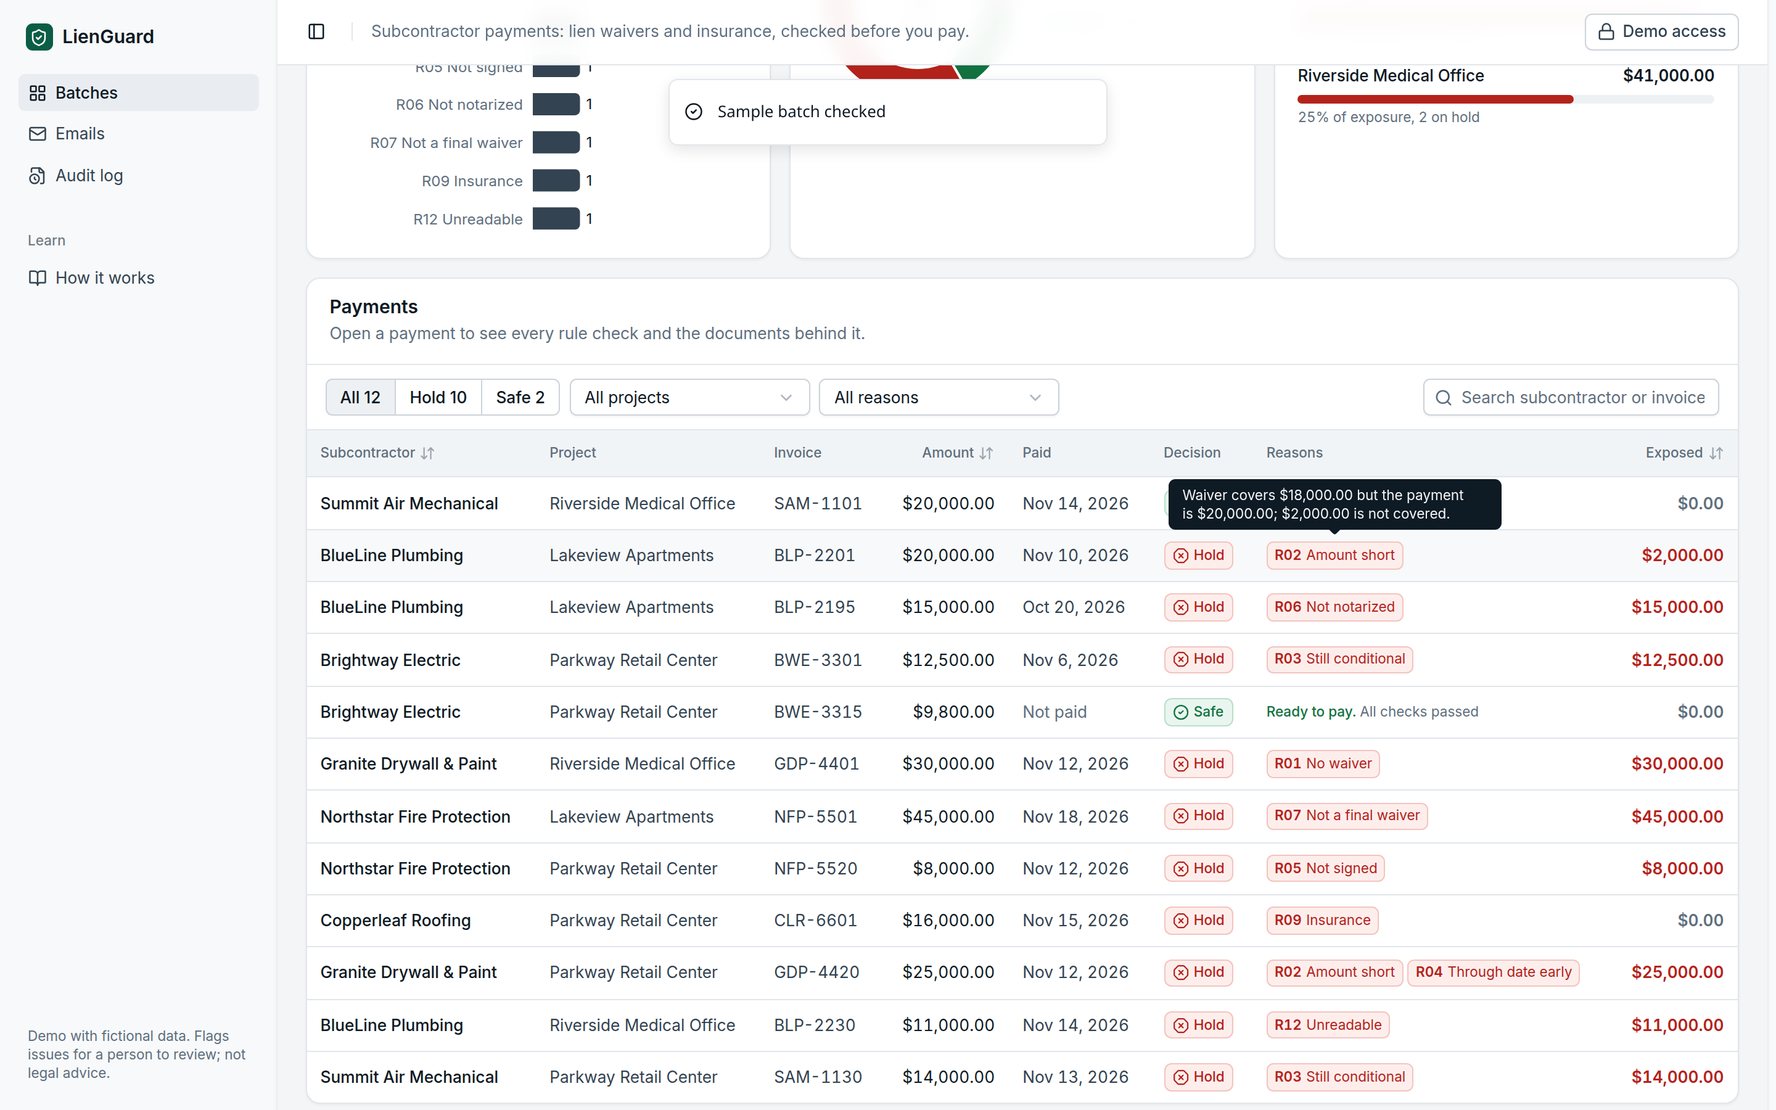
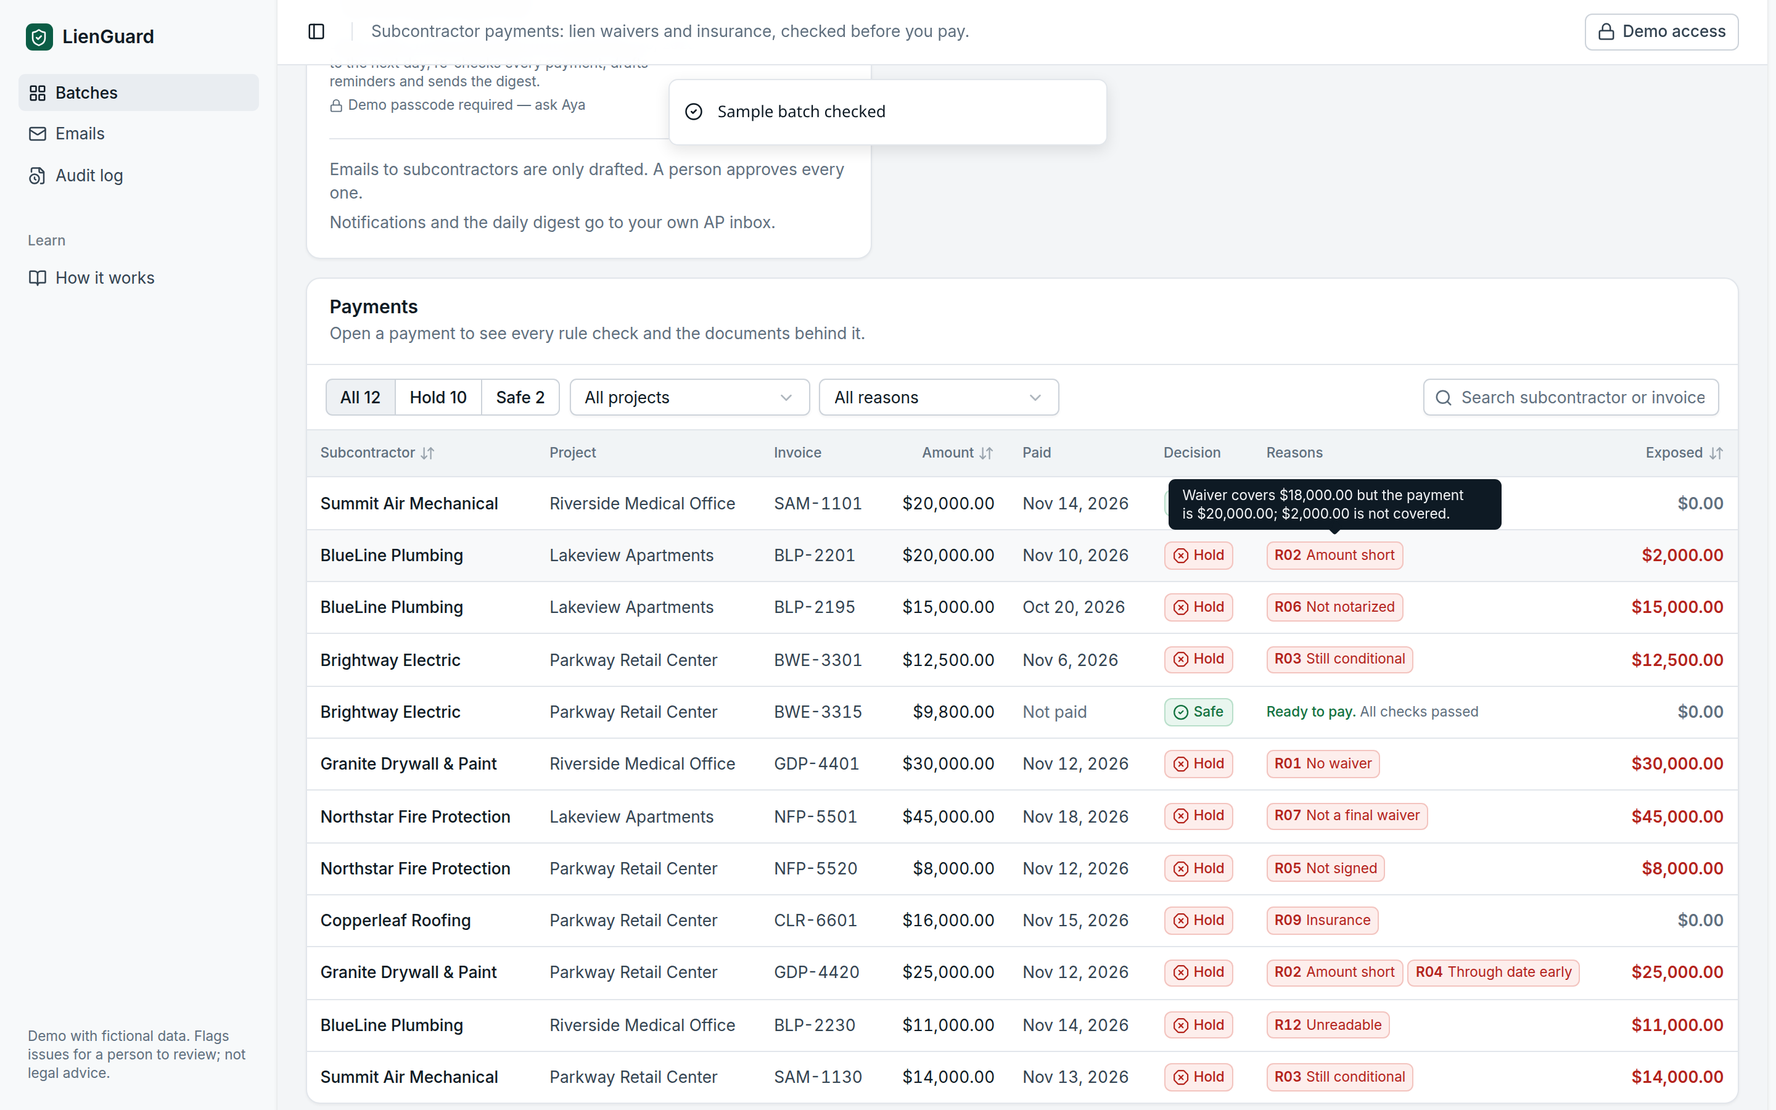
story(S-20): activity timeline and the automated loop in the UI and README
- Batch page: Automation panel ("Simulate a subcontractor reply" on sample
  batches, "Run daily check now" with the demo clock) and an Activity
  timeline of every event with time and source (Automation or a person).
- Emails: reminders are listed next to the follow-up and explained as
  code-written drafts that wait for approval.
- Home "How it works" shows the loop: document arrives -> AI reads ->
  rules re-check -> status changes -> notify / draft reminder -> human
  approves. README "Automation" section. Screenshots 18, 18b, 19.

diff --git a/src/components/app/activity.tsx b/src/components/app/activity.tsx
@@ -1,0 +1,103 @@
+// Activity timeline (AC-20.1): every automatic and human event on a batch, newest first.
+import { Bot, CheckCircle2, FileInput, Mail, MailCheck, MailX, OctagonX, RefreshCw, Send, User } from "lucide-react";
+import type { ReactNode } from "react";
+import { formatMoney } from "@/domain/money";
+import { formatDate } from "@/domain/dates";
+import { cn } from "@/lib/utils";
+
+type Row = { id: string; at: Date; actor: string; action: string; detailsJson: unknown; subCode: string | null };
+
+function d(row: Row): Record<string, unknown> {
+  return row.detailsJson && typeof row.detailsJson === "object" ? (row.detailsJson as Record<string, unknown>) : {};
+}
+
+function describe(row: Row): { icon: ReactNode; text: ReactNode; tone?: "hold" | "safe" } {
+  const x = d(row);
+  switch (row.action) {
+    case "document.received":
+      return { icon: <FileInput aria-hidden />, text: <>Document received: <b>{String(x.fileName ?? "")}</b> ({String(x.read ?? "read")})</> };
+    case "document.duplicate":
+      return { icon: <FileInput aria-hidden />, text: <>Same document received again: {String(x.fileName ?? "")}. Nothing changed.</> };
+    case "rules.rerun":
+      return {
+        icon: <RefreshCw aria-hidden />,
+        text: (
+          <>
+            Rules re-run{x.reason ? ` (${String(x.reason)}${typeof x.today === "string" ? `, batch date ${formatDate(x.today)}` : ""})` : ""}. Exposed{" "}
+            {typeof x.exposedCents === "number" ? formatMoney(x.exposedCents) : ""}.
+          </>
+        ),
+      };
+    case "payment.status_changed": {
+      const toSafe = x.to === "SAFE";
+      return {
+        icon: toSafe ? <CheckCircle2 aria-hidden /> : <OctagonX aria-hidden />,
+        tone: toSafe ? "safe" : "hold",
+        text: (
+          <>
+            <b>{String(x.sub ?? "")}</b>, invoice {String(x.invoice ?? "")}: {String(x.from ?? "")} → <b>{String(x.to ?? "")}</b>
+          </>
+        ),
+      };
+    }
+    case "notification.sent":
+      return { icon: <MailCheck aria-hidden />, text: <>Notified the AP inbox: “{String(x.text ?? "")}”</> };
+    case "notification.not_sent":
+      return { icon: <MailX aria-hidden />, text: <>AP notification not sent ({String(x.reason ?? "")}): “{String(x.text ?? "")}”</> };
+    case "reminder.drafted":
+      return { icon: <Mail aria-hidden />, text: <>Reminder drafted for <b>{String(x.sub ?? "")}</b>. Waiting for a person to approve it.</> };
+    case "digest.sent":
+      return { icon: <Send aria-hidden />, text: <>Daily digest sent to the AP inbox ({String(x.newHolds ?? 0)} new holds, {String(x.cleared ?? 0)} cleared).</> };
+    case "batch.create_sample":
+      return { icon: <FileInput aria-hidden />, text: <>Created from sample data</> };
+    case "email.generate_drafts":
+      return { icon: <Mail aria-hidden />, text: <>Follow-up emails drafted ({String(x.created ?? "")})</> };
+    case "email.approve":
+      return { icon: <CheckCircle2 aria-hidden />, text: <>Approved the email to {row.subCode ?? "a subcontractor"}</> };
+    case "email.send":
+      return { icon: <Send aria-hidden />, text: <>Sent the email to {row.subCode ?? "a subcontractor"}</> };
+    case "email.skip":
+      return { icon: <MailX aria-hidden />, text: <>Skipped the email to {row.subCode ?? "a subcontractor"}</> };
+    case "email.edit":
+      return { icon: <Mail aria-hidden />, text: <>Edited the email to {row.subCode ?? "a subcontractor"}</> };
+    default:
+      return { icon: <RefreshCw aria-hidden />, text: row.action };
+  }
+}
+
+const when = (at: Date) => at.toLocaleString("en-US", { month: "short", day: "numeric", hour: "numeric", minute: "2-digit", timeZone: "UTC" }) + " UTC";
+
+export function ActivityTimeline({ rows }: { rows: Row[] }) {
+  if (rows.length === 0) return <p className="px-5 py-6 text-sm text-muted-foreground">No activity yet.</p>;
+  return (
+    <ol className="relative px-5 py-4">
+      {rows.map((r, i) => {
+        const v = describe(r);
+        const auto = r.actor === "automation";
+        return (
+          <li key={r.id} className="relative flex gap-3 pb-4 last:pb-0">
+            {i < rows.length - 1 ? <span aria-hidden className="absolute top-7 bottom-0 left-[13px] w-px bg-border" /> : null}
+            <span
+              className={cn(
+                "relative z-10 flex size-7 shrink-0 items-center justify-center rounded-full border bg-card [&_svg]:size-3.5",
+                v.tone === "safe" ? "border-safe-line text-safe" : v.tone === "hold" ? "border-hold-line text-hold" : "text-muted-foreground",
+              )}
+            >
+              {v.icon}
+            </span>
+            <div className="min-w-0 flex-1 pt-0.5">
+              <p className="text-sm text-foreground">{v.text}</p>
+              <p className="mt-0.5 flex items-center gap-1.5 text-xs text-muted-foreground">
+                <span className="num">{when(r.at)}</span>
+                <span className="ml-1 inline-flex items-center gap-1">
+                  {auto ? <Bot aria-hidden className="size-3" /> : <User aria-hidden className="size-3" />}
+                  {auto ? "Automation" : r.actor}
+                </span>
+              </p>
+            </div>
+          </li>
+        );
+      })}
+    </ol>
+  );
+}

diff --git a/src/app/_components/automation.tsx b/src/app/_components/automation.tsx
@@ -1,0 +1,72 @@
+"use client";
+
+// The two buttons that let reviewers see the automated loop without curl (AC-18.4, AC-19.1).
+import { CalendarClock, Inbox, Loader2 } from "lucide-react";
+import { useRouter } from "next/navigation";
+import { useState } from "react";
+import { toast } from "sonner";
+import { post } from "./client-api";
+import { Button } from "@/components/app/button";
+import { PasscodeNote, useUnlocked } from "@/components/app/demo-access";
+
+export function AutomationActions({ batchId, isSample, batchDate }: { batchId: string; isSample: boolean; batchDate: string }) {
+  const router = useRouter();
+  const unlocked = useUnlocked();
+  const [busy, setBusy] = useState("");
+
+  const simulate = async () => {
+    setBusy("reply");
+    try {
+      const r = await post<{ changes: { subName: string; invoice: string; to: string }[]; duplicate: boolean; notified: boolean }>(`/api/batches/${batchId}/simulate-reply`);
+      if (r.duplicate) toast("That reply was already received. Nothing changed.");
+      else if (r.changes.length) {
+        const c = r.changes[0]!;
+        toast.success(`${c.subName} ${c.invoice} is now ${c.to === "SAFE" ? "safe to pay" : "on hold"}`, {
+          description: r.notified ? "The AP inbox was notified." : "AP email not sent: unlock demo access to send it.",
+        });
+      } else toast("Document received. No payment changed.");
+      router.refresh();
+    } catch (e) {
+      toast.error((e as Error).message);
+    }
+    setBusy("");
+  };
+
+  const daily = async () => {
+    setBusy("daily");
+    try {
+      const r = await post<{ today: string; changes: number; reminders: number; digestSent: boolean }>(`/api/batches/${batchId}/daily-check`);
+      toast.success(`Daily check for ${r.today}: ${r.changes} status change${r.changes === 1 ? "" : "s"}, ${r.reminders} reminder${r.reminders === 1 ? "" : "s"} drafted`, {
+        description: r.digestSent ? "Digest sent to the AP inbox." : undefined,
+      });
+      router.refresh();
+    } catch (e) {
+      toast.error((e as Error).message);
+    }
+    setBusy("");
+  };
+
+  return (
+    <div className="flex flex-wrap items-start gap-x-6 gap-y-3">
+      {isSample ? (
+        <div>
+          <Button onClick={simulate} disabled={!!busy}>
+            {busy === "reply" ? <Loader2 aria-hidden className="animate-spin" /> : <Inbox aria-hidden />}
+            Simulate a subcontractor reply
+          </Button>
+          <p className="mt-1.5 max-w-72 text-xs text-muted-foreground">BlueLine sends a corrected waiver for invoice BLP-2201, as if forwarded from the AP inbox.</p>
+        </div>
+      ) : null}
+      <div>
+        <Button onClick={daily} disabled={!!busy || !unlocked}>
+          {busy === "daily" ? <Loader2 aria-hidden className="animate-spin" /> : <CalendarClock aria-hidden />}
+          Run daily check now
+        </Button>
+        <p className="mt-1.5 max-w-80 text-xs text-muted-foreground">
+          Demo clock: moves this batch from {batchDate} to the next day, re-checks every payment, drafts reminders and sends the digest.
+        </p>
+        <PasscodeNote className="mt-1" />
+      </div>
+    </div>
+  );
+}

diff --git a/src/app/batches/[id]/page.tsx b/src/app/batches/[id]/page.tsx
@@ -2,7 +2,7 @@ import { AlertOctagon, AlertTriangle, ChevronLeft, FileClock, FileQuestion, Info
 import Link from "next/link";
 import { notFound } from "next/navigation";
 import { getBatchView } from "@/server/batches";
-import { listDrafts } from "@/server/drafts";
+import { listAudit, listDrafts } from "@/server/drafts";
 import { buildDashboard } from "@/view/models";
 import { formatMoney } from "@/domain/money";
 import { formatDate } from "@/domain/dates";
@@ -11,6 +11,8 @@ import { Processing } from "@/app/_components/processing";
 import { PaymentsTable } from "@/app/_components/payments-table";
 import { DraftEmailsButton } from "@/app/_components/drafts";
 import { KpiStrip } from "@/components/app/kpis";
+import { ActivityTimeline } from "@/components/app/activity";
+import { AutomationActions } from "@/app/_components/automation";
 import { ExposureBars } from "@/components/app/exposure-bars";
 import { HoldsByReasonChart, SafeVsHoldChart } from "@/components/app/batch-charts";
 import { decisionSplit, holdsByReason } from "@/view/charts";
@@ -62,6 +64,7 @@ export default async function BatchPage({ params }: { params: Promise<{ id: stri
 
   const d = buildDashboard(batch.result);
   const drafts = await listDrafts(id);
+  const activity = await listAudit(id);
   const subsWithHold = new Set(d.rows.filter((r) => r.decision === "HOLD").map((r) => r.subCode)).size;
   const projects = d.byProject.map((p) => ({ ...p, hold: d.rows.filter((r) => r.projectCode === p.code && r.decision === "HOLD").length }));
 
@@ -141,6 +144,25 @@ export default async function BatchPage({ params }: { params: Promise<{ id: stri
           </ul>
         </Panel>
       ) : null}
+
+      <div className="grid grid-cols-[minmax(0,2fr)_minmax(0,3fr)] items-start gap-4">
+        <Panel>
+          <PanelHeader title="Automation" description="Documents that arrive later re-check the batch on their own. A daily check re-runs the rules, drafts reminders and sends a digest." />
+          <div className="px-5 py-5">
+            <AutomationActions batchId={id} isSample={batch.kind === "sample"} batchDate={formatDate(batch.today)} />
+            <ol className="mt-5 space-y-1.5 border-t pt-4 text-sm text-muted-foreground">
+              <li>Emails to subcontractors are only drafted. A person approves every one.</li>
+              <li>Notifications and the daily digest go to your own AP inbox.</li>
+            </ol>
+          </div>
+        </Panel>
+        <Panel>
+          <PanelHeader title="Activity" description="Everything that happened to this batch, by automation or by a person. Newest first." />
+          <div className="max-h-[420px] overflow-y-auto">
+            <ActivityTimeline rows={activity} />
+          </div>
+        </Panel>
+      </div>
 
       <Panel>
         <PanelHeader title="Payments" description="Open a payment to see every rule check and the documents behind it." />

diff --git a/src/app/_components/drafts.tsx b/src/app/_components/drafts.tsx
@@ -127,7 +127,10 @@ export function DraftDetail({ draft }: { draft: EmailDraftRecord }) {
     <article data-slot="card" className="rounded-xl border bg-card shadow-xs">
       <header className="flex items-start justify-between gap-3 border-b px-5 py-4">
         <div className="min-w-0">
-          <h2 className="font-semibold text-foreground">{draft.issues.subName}</h2>
+          <h2 className="font-semibold text-foreground">
+            {draft.issues.subName}
+            {draft.kind === "reminder" ? <span className="ml-2 text-sm font-normal text-muted-foreground">Reminder, drafted by the daily check</span> : null}
+          </h2>
           <p className="mt-1 truncate text-sm text-muted-foreground">
             To {draft.issues.contactName}, {draft.toAddress}
           </p>
@@ -187,7 +190,11 @@ export function DraftDetail({ draft }: { draft: EmailDraftRecord }) {
         {!check.ok ? <p className="rounded-md border border-warn-line bg-warn-bg px-3 py-2 text-sm text-warn">{check.problems.join("; ")}</p> : null}
         {draft.error ? <p className="rounded-md border border-hold-line bg-hold-bg px-3 py-2 text-sm text-hold">Last send failed: {draft.error}</p> : null}
         <p className="text-xs text-muted-foreground">
-          {draft.source === "ai" ? "Wording by AI. Every amount and date was filled in by code." : "Code template: the AI draft didn't pass the number check."}
+          {draft.kind === "reminder"
+            ? "Reminder written by code from the issues still open. Nothing is sent until a person approves it."
+            : draft.source === "ai"
+              ? "Wording by AI. Every amount and date was filled in by code."
+              : "Code template: the AI draft didn't pass the number check."}
         </p>
       </div>
 
@@ -255,7 +262,10 @@ export function EmailsWorkspace({ drafts }: { drafts: EmailDraftRecord[] }) {
                   className={cn("flex w-full items-start justify-between gap-2 rounded-lg px-3 py-2.5 text-left", active ? "bg-accent" : "hover:bg-muted")}
                 >
                   <span className="min-w-0">
-                    <span className="block truncate text-sm font-medium text-foreground">{d.issues.subName}</span>
+                    <span className="block truncate text-sm font-medium text-foreground">
+                      {d.issues.subName}
+                      {d.kind === "reminder" ? <span className="ml-1.5 text-xs font-normal text-muted-foreground">Reminder</span> : null}
+                    </span>
                     <span className="num block text-xs text-muted-foreground">
                       {d.issues.issues.length} issue{d.issues.issues.length === 1 ? "" : "s"}, {d.issues.contactName}
                     </span>

diff --git a/src/components/app/how-it-works.tsx b/src/components/app/how-it-works.tsx
@@ -1,23 +1,25 @@
-import { FileSpreadsheet, MailCheck, ScanText, Scale } from "lucide-react";
+import { BellRing, FileInput, MailCheck, RefreshCw, ScanText, Scale } from "lucide-react";
 
 const steps = [
-  { icon: FileSpreadsheet, title: "Upload", text: "Payments spreadsheet plus the waivers and insurance certificates that arrived." },
-  { icon: ScanText, title: "AI reads documents", text: "Each field comes with a confidence score and the exact words it was read from." },
-  { icon: Scale, title: "Rules decide", text: "Plain, tested code checks every payment and computes the dollars at risk." },
-  { icon: MailCheck, title: "Human approves emails", text: "One follow-up per subcontractor. Nothing is sent until a person approves it." },
+  { icon: FileInput, title: "Document arrives", text: "Uploaded, or forwarded from the AP inbox when a subcontractor replies." },
+  { icon: ScanText, title: "AI reads it", text: "Every field with a confidence score and the exact words it came from." },
+  { icon: Scale, title: "Rules re-check", text: "Tested code re-checks the batch, again every day as dates move on." },
+  { icon: RefreshCw, title: "Status changes", text: "Payments move between HOLD and SAFE; each change is logged." },
+  { icon: BellRing, title: "Notify or remind", text: "The AP inbox is told what cleared; reminders are drafted after 3 days." },
+  { icon: MailCheck, title: "Human approves", text: "Nothing goes to a subcontractor until a person approves it." },
 ];
 
-/** The four-step flow. A real sequence, so the steps are numbered. */
+/** The automated loop (AC-20.2). A real sequence, so the steps are numbered. */
 export function HowItWorks() {
   return (
-    <ol className="grid grid-cols-4 divide-x divide-line rounded-[var(--radius-card)] border border-line bg-surface shadow-[var(--shadow-card)]">
+    <ol className="grid grid-cols-3 gap-px overflow-hidden rounded-xl border bg-border shadow-xs">
       {steps.map(({ icon: Icon, title, text }, i) => (
-        <li key={title} className="flex gap-3 px-4 py-4">
-          <span className="flex size-8 shrink-0 items-center justify-center rounded-[6px] bg-brand-soft text-brand">
+        <li key={title} className="flex gap-3 bg-card px-4 py-4">
+          <span className="flex size-8 shrink-0 items-center justify-center rounded-md bg-brand-soft text-brand">
             <Icon aria-hidden className="size-4" />
           </span>
           <div className="min-w-0">
-            <p className="text-[13px] font-semibold text-ink">
+            <p className="text-sm font-semibold text-foreground">
               <span className="num mr-1 text-muted-foreground">{i + 1}.</span>
               {title}
             </p>

diff --git a/scripts/screenshots.ts b/scripts/screenshots.ts
@@ -85,6 +85,22 @@ async function main() {
   await shot(page, "10c-emails-editing", false);
 
   await narrowShot(browser, page.url(), "10d-emails-1280");
+
+  // Automation (S-18..S-20): a subcontractor reply arrives, then three daily checks.
+  await page.goto(batchUrl);
+  await page.getByRole("button", { name: "Simulate a subcontractor reply" }).click();
+  await page.waitForTimeout(1500);
+  for (let i = 0; i < 3; i++) {
+    await page.getByRole("button", { name: "Run daily check now" }).click();
+    await page.waitForTimeout(1500);
+  }
+  await page.getByText("Activity", { exact: true }).scrollIntoViewIfNeeded();
+  await shot(page, "18-automation-activity", false);
+  await shot(page, "18b-dashboard-after-automation");
+  await page.goto(`${batchUrl}/drafts`);
+  await page.getByRole("navigation", { name: "Subcontractors" }).getByRole("button", { name: /Reminder/ }).first().click();
+  await page.waitForTimeout(300);
+  await shot(page, "19-emails-reminder", false);
   await page.goto(`${batchUrl}/audit`);
   await shot(page, "11-audit-log");
   await page.goto(`${BASE}/about`);

diff --git a/src/server/drafts.ts b/src/server/drafts.ts
@@ -78,7 +78,7 @@ export const prismaDraftStore: DraftStore = {
 };
 
 export async function listDrafts(batchId: string): Promise<EmailDraftRecord[]> {
-  const rows = await prisma.emailDraft.findMany({ where: { batchId }, orderBy: { subCode: "asc" } });
+  const rows = await prisma.emailDraft.findMany({ where: { batchId }, orderBy: [{ subCode: "asc" }, { kind: "asc" }] });
   return rows.map(toRecord);
 }
 

diff --git a/README.md b/README.md
@@ -31,6 +31,23 @@ LienGuard takes the payments spreadsheet and the PDFs that arrived. For every pa
 5. **Dashboard:** exposed $, SAFE/HOLD counts, exposure by project, and a filterable table. Each payment has a detail page with every rule's PASS/HOLD and the PDF beside it.
 6. **Email drafts:** one per subcontractor with issues → approve / edit / skip → send through Resend. Every action goes into an **audit log**.
 
+## Automation: the loop runs without anyone clicking
+
+```
+document arrives → AI reads it → rules re-check → status changes → notify / draft a reminder → a person approves
+```
+
+- **Inbound documents:** `POST /api/inbound` (header `x-inbound-secret`) takes a PDF and a batch id, as if forwarded from the AP inbox.
+  - The PDF is read, the batch is re-checked and every change is recorded.
+  - When a payment flips from HOLD to SAFE, the AP inbox gets "*BlueLine Plumbing is now safe to pay: BLP-2201, $20,000.00*".
+  - On a sample batch, **Simulate a subcontractor reply** does the same with a corrected waiver, without curl.
+- **Daily check:** Vercel Cron calls `GET /api/cron/daily` (`Authorization: Bearer CRON_SECRET`) every morning. Every open batch is re-checked with the real date, so an expired insurance certificate or a conditional waiver past its grace period turns into a HOLD on its own.
+  - **Reminders:** subcontractors who sent nothing 3 days after our email get a reminder **draft**, which waits for approval.
+  - **Digest:** one email goes to the AP inbox with new holds, cleared holds, exposed $ and drafts waiting. Its numbers are checked against the data before it is sent.
+  - **Run daily check now** (passcode) does the same for one batch and moves its demo date forward a day.
+- **Activity timeline:** the batch page shows every event, marked "Automation" or with the person's name.
+- **Human approval stays:** nothing is ever sent to a subcontractor automatically. Only notifications and the digest go out on their own, and they go to your own inbox.
+
 ## Where AI is used, and where it isn't
 
 | Step | Who does it | Why |

diff --git a/docs/features/001-lienguard.md b/docs/features/001-lienguard.md
@@ -279,9 +279,9 @@ _File lists updated 2026-11-25 after the first check report to match where the c
 | S-15 | Frontend redesign | S-13, S-14 | merged |
 | S-16 | Honest sample note; AI-quota message | S-12, S-15 | merged |
 | S-17 | UI on shadcn/ui dashboard-01 | S-15, S-16 | checking |
-| S-18 | Inbound documents | S-13, S-17 | coding |
-| S-19 | Daily automation | S-18 | coding |
-| S-20 | Activity timeline; loop in docs | S-18, S-19 | coding |
+| S-18 | Inbound documents | S-13, S-17 | checking |
+| S-19 | Daily automation | S-18 | checking |
+| S-20 | Activity timeline; loop in docs | S-18, S-19 | checking |
 
 ## 11. Sign-off on items without an automated test (2026-11-26, Aya, in chat)
 After check round 4 (`docs/checks/2026-11-26-check-2.md`), Aya accepted:
